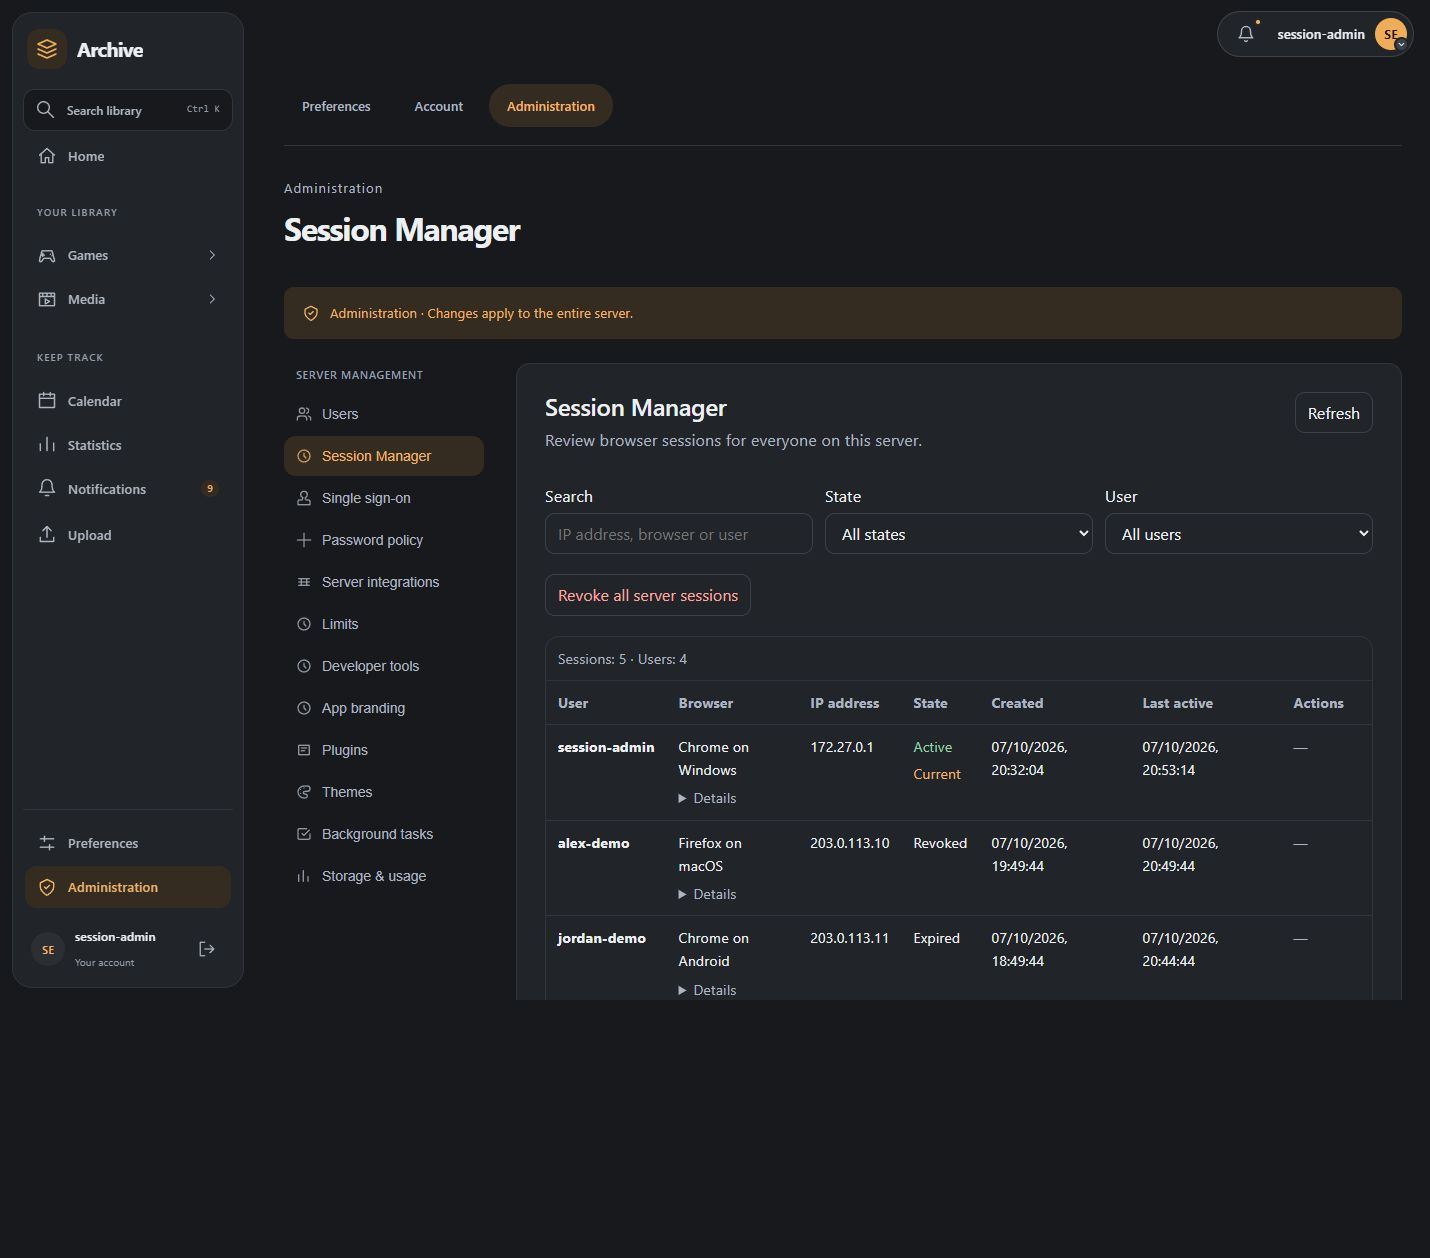
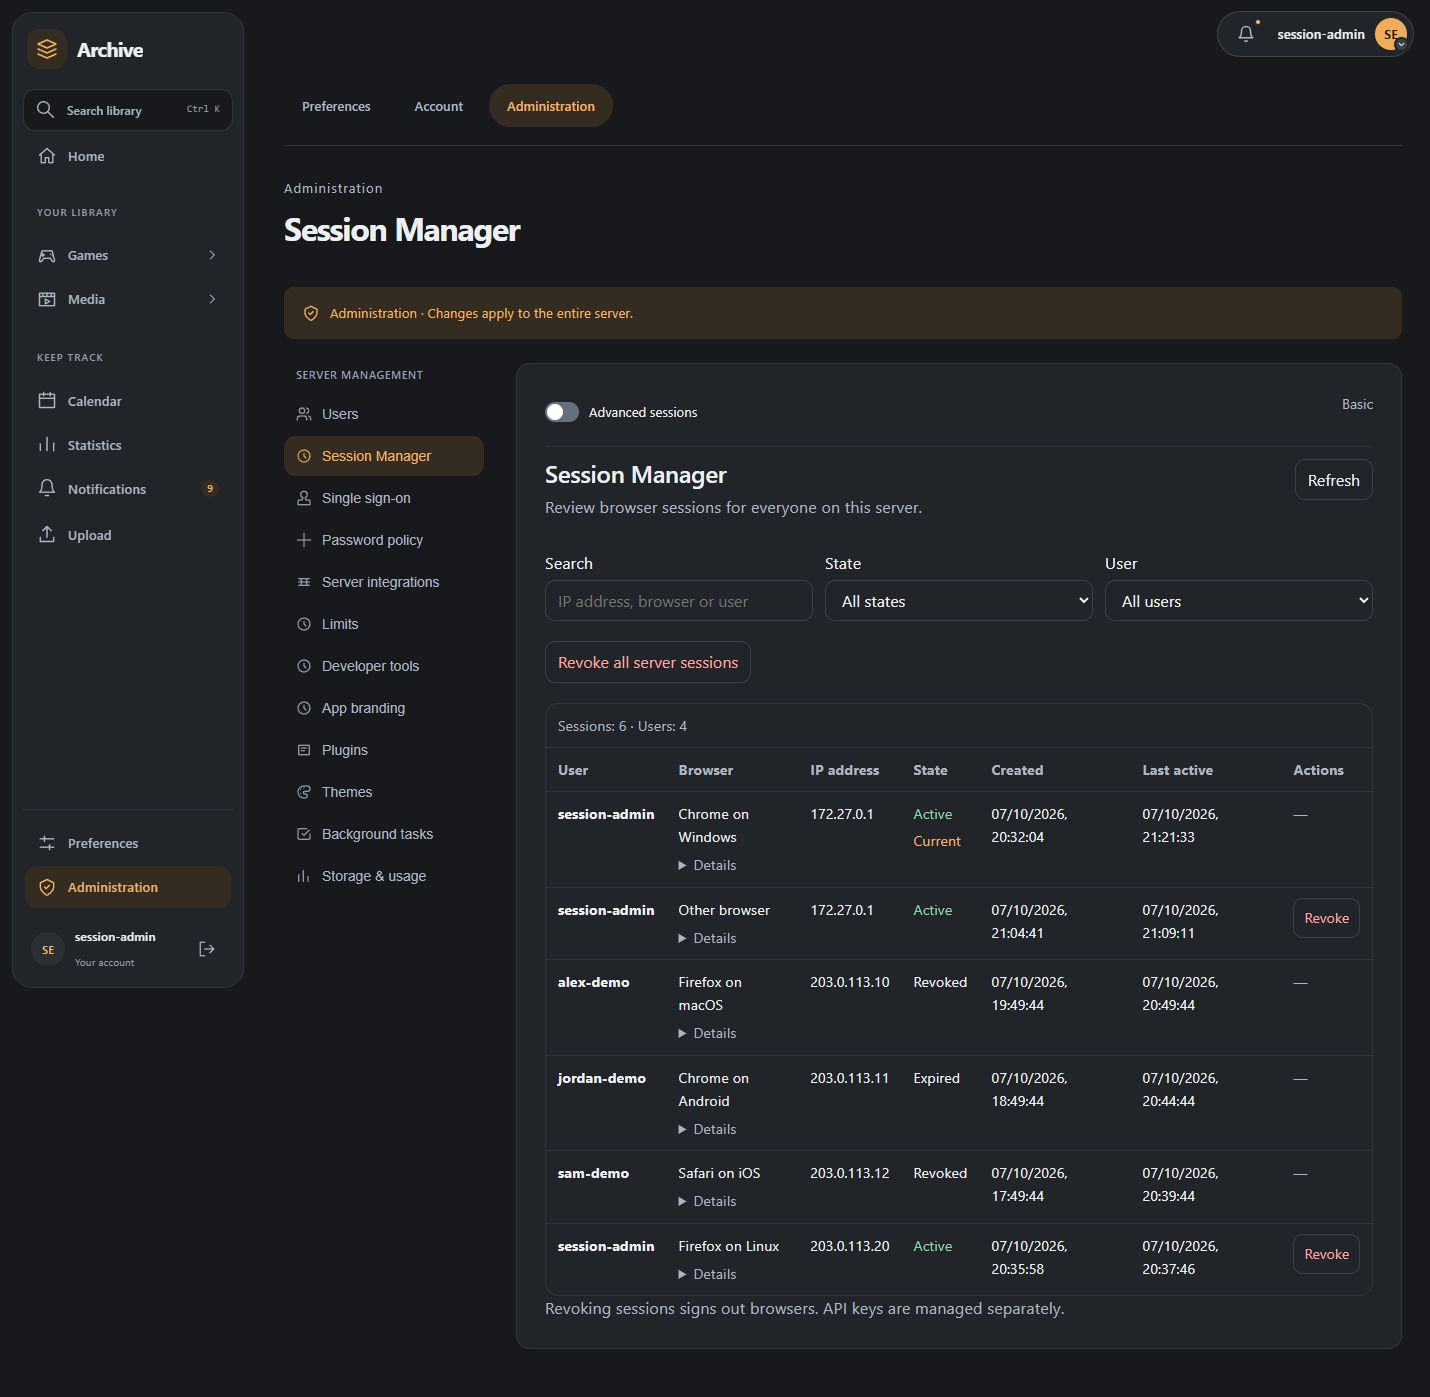
feat: switch between basic and advanced session views

diff --git a/src/frontend/src/views/Settings.vue b/src/frontend/src/views/Settings.vue
@@ -35,6 +35,7 @@ import ConnectionsSection from "../components/settings/ConnectionsSection.vue";
 import AniListImportSection from "../components/settings/AniListImportSection.vue";
 import ApiKeysSection from "../components/settings/ApiKeysSection.vue";
 import SessionsSection from "../components/settings/SessionsSection.vue";
+import ToggleButton from "../components/settings/ToggleButton.vue";
 import PluginManagerSection from "../components/settings/PluginManagerSection.vue";
 import ThemesSection from "../components/settings/ThemesSection.vue";
 import PwaSettingsSection from "../components/settings/PwaSettingsSection.vue";
@@ -124,13 +125,20 @@ const settingsReplacementConflicts = computed(() =>
 const showHostSettings = computed(
   () => currentUser.value?.is_admin && route.query.host === "1",
 );
-const sessionReplacement = computed(() => {
-  if (route.query.basic === "1") return undefined;
+const availableSessionReplacement = computed(() => {
   if (activeSection.value === "sessions") return pageReplacement("sessions");
   if (activeSection.value === "admin-sessions" && currentUser.value?.is_admin)
     return pageReplacement("admin-sessions");
   return undefined;
 });
+const sessionReplacement = computed(() =>
+  route.query.basic === "1" ? undefined : availableSessionReplacement.value,
+);
+function setAdvancedSessions(enabled: boolean) {
+  void router.replace({
+    query: { ...route.query, basic: enabled ? undefined : "1" },
+  });
+}
 
 const activePluginSettings = computed(() =>
   visiblePluginSettings.value.find(
@@ -505,29 +513,38 @@ function backToArea() {
             @navigate="openSection"
           />
           <ApiKeysSection v-else-if="activeSection === 'api-keys'" />
-          <template v-else-if="sessionReplacement">
-            <p class="replacement-notice">
-              Enhanced sessions provided by
-              {{ sessionReplacement.document.title }}.
-              <RouterLink :to="{ query: { ...route.query, basic: '1' } }"
-                >Show built-in sessions</RouterLink
-              >
-            </p>
-            <PluginContributionHost
-              :plugin-id="sessionReplacement.pluginId"
-              :document="sessionReplacement.document"
-              :page-id="sessionReplacement.page.id"
-              :context="{ host_page: activeSection }"
-              embedded
+          <template
+            v-else-if="
+              activeSection === 'sessions' ||
+              (activeSection === 'admin-sessions' && currentUser?.is_admin)
+            "
+          >
+            <div v-if="availableSessionReplacement" class="session-view-switch">
+              <ToggleButton
+                :model-value="!!sessionReplacement"
+                label="Advanced sessions"
+                @update:model-value="setAdvancedSessions"
+              />
+              <span>{{ sessionReplacement ? "Advanced" : "Basic" }}</span>
+            </div>
+            <template v-if="sessionReplacement">
+              <p class="replacement-notice">
+                Advanced sessions provided by
+                {{ sessionReplacement.document.title }}.
+              </p>
+              <PluginContributionHost
+                :plugin-id="sessionReplacement.pluginId"
+                :document="sessionReplacement.document"
+                :page-id="sessionReplacement.page.id"
+                :context="{ host_page: activeSection }"
+                embedded
+              />
+            </template>
+            <SessionsSection
+              v-else
+              :admin="activeSection === 'admin-sessions'"
             />
           </template>
-          <SessionsSection v-else-if="activeSection === 'sessions'" />
-          <SessionsSection
-            v-else-if="
-              activeSection === 'admin-sessions' && currentUser?.is_admin
-            "
-            admin
-          />
           <LibrarySettings
             v-else-if="activeSection === 'library'"
             :key="'library' + initialTab"
@@ -596,6 +613,18 @@ function backToArea() {
 </template>
 
 <style scoped>
+.session-view-switch {
+  display: flex;
+  justify-content: space-between;
+  align-items: flex-start;
+  gap: 16px;
+  margin-bottom: 12px;
+  border-bottom: 1px solid var(--ui-border-soft);
+}
+.session-view-switch > span {
+  color: var(--ui-dim);
+  font-size: 0.85rem;
+}
 .settings-page {
   position: relative;
   min-height: 100vh;

diff --git a/docs/plugin-ui-protocol.md b/docs/plugin-ui-protocol.md
@@ -30,7 +30,7 @@ Secret fields are represented only by their metadata. Existing secret values are
 
 ## Compatibility
 
-Page replacements include `sessions` and `admin-sessions`, each requiring its exact grant: `frontend.page.replace.sessions` or `frontend.page.replace.admin-sessions`. These high-risk permissions are independent of `frontend.page.replace.settings`, `frontend.settings` and session read/revoke grants. They replace only the matching built-in Settings section and do not create additional navigation entries. The host reserves the `sessions` and `admin-sessions` settings IDs, enforces administrator visibility for the latter, and falls back to the basic page when no healthy enabled replacement is authorized. Existing order/plugin-ID/contribution-ID conflict resolution applies. Users can explicitly select the basic page with `basic=1` in the Settings query.
+Page replacements include `sessions` and `admin-sessions`, each requiring its exact grant: `frontend.page.replace.sessions` or `frontend.page.replace.admin-sessions`. These high-risk permissions are independent of `frontend.page.replace.settings`, `frontend.settings` and session read/revoke grants. They replace only the matching built-in Settings section and do not create additional navigation entries. The host reserves the `sessions` and `admin-sessions` settings IDs, enforces administrator visibility for the latter, and falls back to the basic page when no healthy enabled replacement is authorized. Existing order/plugin-ID/contribution-ID conflict resolution applies. The Advanced sessions switch selects between the basic page (`basic=1` in the Settings query) and an available replacement.
 
 Unknown schema versions must be rejected or rendered as an unsupported-plugin state. New schema versions must add semantics without silently changing the meaning of existing v1 fields.
 

diff --git a/wiki/docs/user-guide/authentication.md b/wiki/docs/user-guide/authentication.md
@@ -51,7 +51,7 @@ Open **Settings → Account → Sessions** to review browser sessions without in
 
 Revoke an active session on another browser or confirm **Revoke all my sessions** to sign out everywhere, including the current browser. Revoked records remain visible for the server's retention period. Browser-session revocation does not revoke API keys.
 
-The built-in page does not require MaxMind databases or show location, network, anomalies or a map. The optional official Session Manager plugin adds those details to this same settings entry when its session-page replacement permission is granted. Disabling the plugin or declining that permission keeps the built-in page. **Show built-in sessions** also opens the basic page while the plugin is enabled.
+The built-in page does not require MaxMind databases or show location, network, anomalies or a map. The optional official Session Manager plugin adds those details to this same settings entry when its session-page replacement permission is granted. Disabling the plugin or declining that permission keeps the built-in page. When the plugin is available, the **Advanced sessions** switch at the top changes between the basic and advanced views.
 
 Sessions are stored server-side and have an expiry. Authenticated requests can use a bearer API key or the normal session cookie.
 
